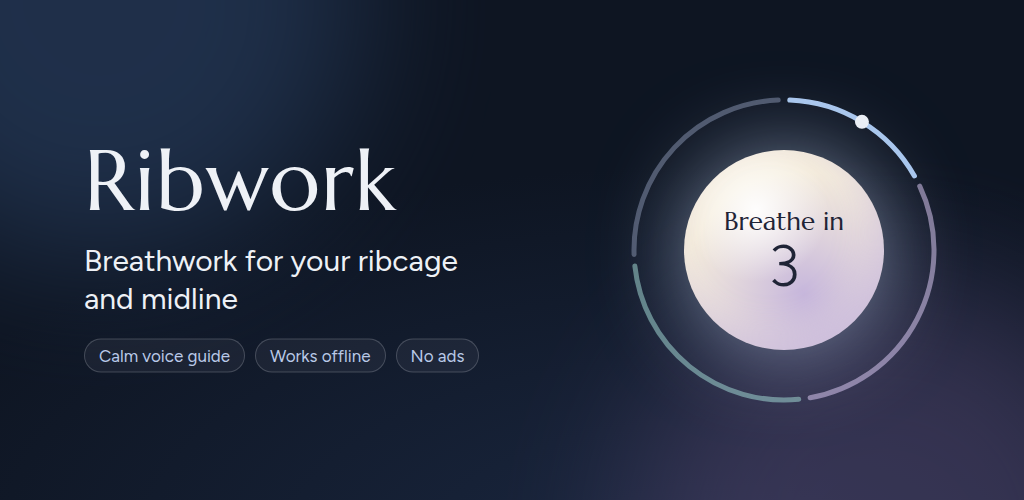
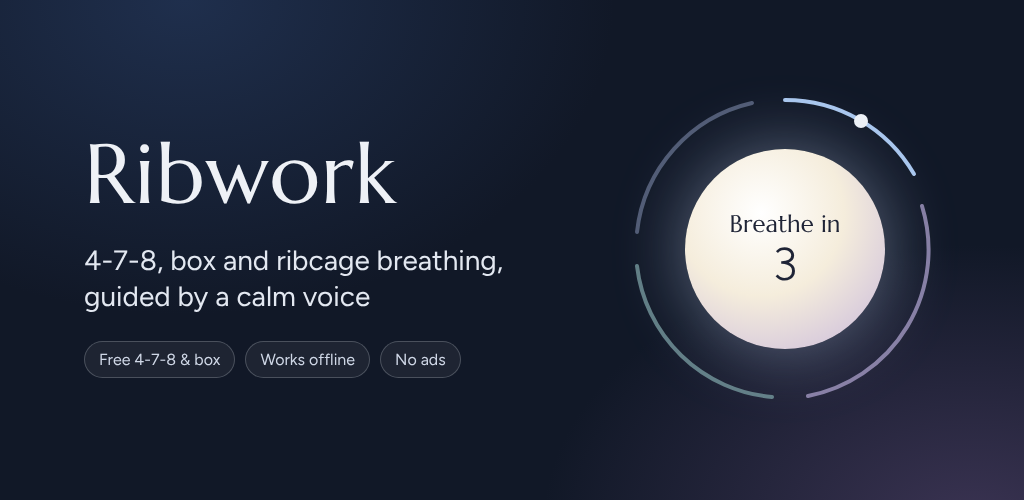
Retake Play screenshots and feature graphic for the new design
Eight 1080 × 1920 screenshots from the real app showing the single
exercise button, the exercise list, the focused session view, and the new
4-7-8 and box breathing. The feature graphic's tagline now leads with
4-7-8 and box breathing.

Claude-Session: https://claude.ai/code/session_01AU9giQamNVHAvDZbgnuzeV

diff --git a/play-store/README.md b/play-store/README.md
@@ -2,12 +2,13 @@
 
 | File | Where it goes in Play Console | Spec |
 |---|---|---|
-| `short-description.txt` | Main store listing → Short description | 79 / 80 characters |
-| `full-description.txt` | Main store listing → Full description | 2,541 / 4,000 characters |
+| `short-description.txt` | Main store listing → Short description | 74 / 80 characters |
+| `full-description.txt` | Main store listing → Full description | 2,652 / 4,000 characters |
 | `app-icon-512.png` | Main store listing → App icon | 512 × 512 PNG, full bleed (Play rounds the corners) |
 | `feature-graphic-1024x500.png` | Main store listing → Feature graphic | 1024 × 500 PNG |
 | `screenshots/*.png` | Main store listing → Phone screenshots | 1080 × 1920 (9:16), upload in number order |
 
-Screenshots were taken from the real app at a 360 × 640 phone size (3× scale).
-The unlock screen shows the Android app's purchase state, with no price, since the
-price comes from Google Play.
+Screenshots were taken from the real app at a 360 × 640 phone size (3× scale), in order:
+home with 4-7-8 selected, a 4-7-8 breath out, the exercise list, a box breathing hold,
+belt breaths, Valsalva, an advanced 4-7-6-6 session with a head position, and bunny
+breathing in the light Dawn theme.
